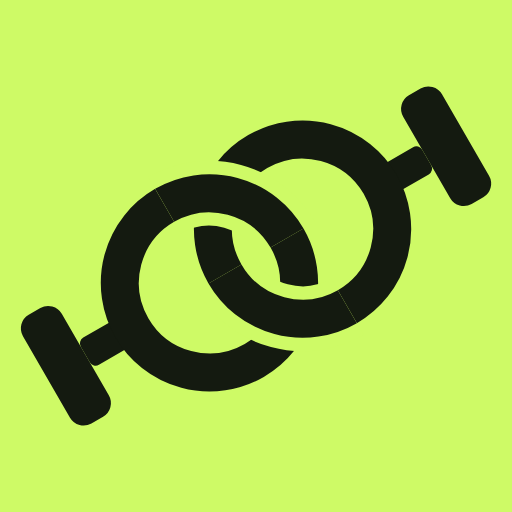
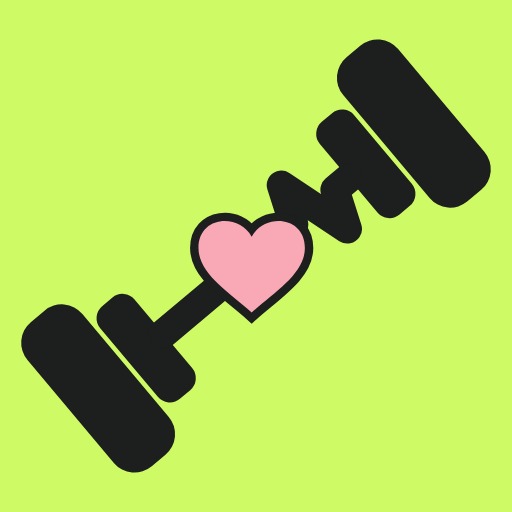
Novo ícone: halter verde-limão com coração Duo na linha de batimento
Claude-Session: https://claude.ai/code/session_01TXSg7tMTcoTaAB2GgiQMHJ

Changed region(s): [[0.0312, 0.0625, 0.9688, 0.9375], [0.875, 0.2188, 0.9062, 0.25], [0.0938, 0.75, 0.125, 0.7812]]

diff --git a/sw.js b/sw.js
@@ -1,5 +1,5 @@
 // Funciona offline: arquivos do app em cache; imagens dos exercícios guardadas quando vistas
-const VERSION = 'duo-move-v2.9.0';
+const VERSION = 'duo-move-v2.9.1';
 const CORE = ['./', './index.html', './css/style.css', './manifest.webmanifest', './data/howto.json', './icon.png',
   './js/app.js', './js/theme.js', './js/router.js', './js/store.js', './js/data.js', './js/library.js', './js/util.js', './js/ui.js', './js/stats.js', './js/charts.js', './js/workout.js', './js/coach.js', './js/techniques.js', './js/planner.js', './js/cardio.js', './js/views/activity.js', './js/views/plan.js',
   './js/views/home.js', './js/views/routines.js', './js/views/history.js', './js/views/progress.js', './js/views/profile.js', './js/views/live.js', './js/views/picker.js'];
